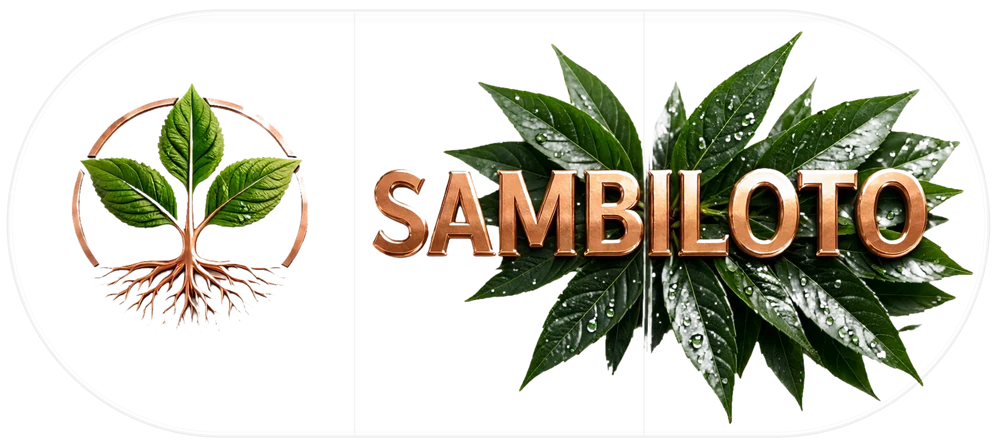
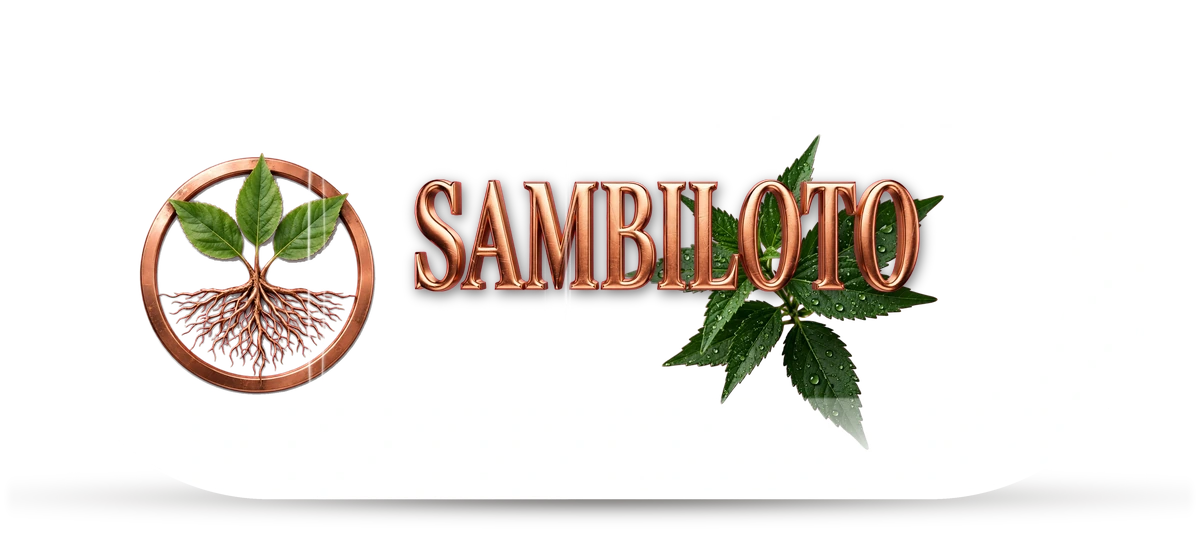
Capsule heroes: Tongkat Ali, Menthol, Sambiloto; Purwoceng redesign

diff --git a/sambiloto.html b/sambiloto.html
@@ -30,8 +30,8 @@
 <link rel="preconnect" href="https://fonts.googleapis.com">
 <link rel="preconnect" href="https://fonts.gstatic.com" crossorigin>
 <link href="https://fonts.googleapis.com/css2?family=Cinzel:wght@400;500;600&family=Cormorant+Garamond:ital,wght@0,400;0,500;0,600;1,400&display=swap" rel="stylesheet">
-<link rel="stylesheet" href="/sheet.css?v=6">
-<link rel="preload" as="image" href="/sambiloto-art.webp?v=6" type="image/webp">
+<link rel="stylesheet" href="/sheet.css?v=9">
+<link rel="preload" as="image" href="/sambiloto-hero.webp?v=13" type="image/webp">
 <script>document.documentElement.className="js"</script>
 </head>
 <body>
@@ -40,15 +40,14 @@
 <a class="tb-back" href="/#products">&larr; All products</a></header>
 <main>
 <section class="hero2">
-<div class="shell"><span class="spec" aria-hidden="true"></span><span class="seam s1" aria-hidden="true"></span><span class="seam s2" aria-hidden="true"></span>
-<figure class="himg"><img src="/sambiloto-art.webp?v=6" width="900" height="415" alt="Root Source Sambiloto: green Sambiloto leaves inside a glass capsule on dark volcanic rock" fetchpriority="high"></figure>
+<figure class="himg"><img src="/sambiloto-hero.webp?v=13" width="1200" height="540" alt="Root Source Sambiloto: green Sambiloto leaves inside a glass capsule on dark volcanic rock" fetchpriority="high"></figure>
 <div class="tblock">
 <p class="eyebrow">Fact sheet</p>
 <h1>Sambiloto</h1>
 <p class="sub"><i>Andrographis paniculata</i> &middot; King of Bitters</p>
 <p class="lead">An intensely bitter herb with a long tradition across India and Southeast Asia, and honest answers to the questions people ask.</p>
 <div class="cta"><a class="btn go" href="checkout.html?add=sambiloto&size=0&qty=1">Order Sambiloto</a> <a class="btn ghost" href="https://wa.me/27687344919?text=Hi%20Root%20Source" target="_blank" rel="noopener">Ask a question on WhatsApp</a></div>
-</div></div>
+</div>
 <div class="chips"><div class="chip"><span>Botanical name</span><b><i>Andrographis paniculata</i><br>Family: Acanthaceae</b></div><div class="chip"><span>Part used</span><b>The herb (leaves and stems)</b></div><div class="chip"><span>Also known as</span><b>Sambiloto (Indonesia), King of Bitters, Kalmegh, Green chiretta</b></div><div class="chip"><span>Our capsule</span><b>500mg, 3:1 dry water extract</b></div><div class="chip"><span>Sizes</span><b>40 capsules (R249)<br>80 capsules (R449)</b></div></div>
 </section>
 <nav class="chnav" aria-label="On this page"><a href="#story">Story</a><a href="#how">How to take it</a><a href="#care">Take care</a><a href="#proof">Proof</a><a href="#faq">Questions</a><a href="#order">Order</a></nav>
@@ -103,10 +102,10 @@
 </div>
 </section>
 <section class="orderband rv" id="order">
-<img src="/sambiloto-card.webp?v=6" loading="lazy" width="700" height="314" alt="">
+<img src="/sambiloto-card.webp" loading="lazy" width="700" height="315" alt="">
 <div><h2>Order Sambiloto</h2><p>Choose your size and quantity on our order page. We confirm availability and send our payment details before anything is paid. For questions, you can also message us on WhatsApp.</p><div class="cta"><a class="btn go" href="checkout.html?add=sambiloto&size=0&qty=1">Order Sambiloto</a> <a class="btn ghost" href="https://wa.me/27687344919?text=Hi%20Root%20Source" target="_blank" rel="noopener">Ask a question on WhatsApp</a></div></div>
 </section>
-<section class="range rv"><h2>Explore the range</h2><div class="rgrid"><a class="rcard" href="/tongkat-ali.html"><img loading="lazy" src="/tongkat-ali-card.webp?v=6" width="700" height="314" alt="Root Source Tongkat Ali (Pasak Bumi): sliced and whole roots inside a glass capsule on dark volcanic rock"><span class="rname">Tongkat Ali <small>(Pasak Bumi)</small></span><span class="rgo">Read the fact sheet &rarr;</span></a><a class="rcard" href="/purwoceng.html"><img loading="lazy" src="/purwoceng-card.webp" width="700" height="314" alt="Root Source Purwoceng: Purwoceng roots inside a glass capsule on dark volcanic rock"><span class="rname">Purwoceng</span><span class="rgo">Read the fact sheet &rarr;</span></a><a class="rcard" href="/menthol.html"><img loading="lazy" src="/menthol-card.webp?v=6" width="700" height="314" alt="Root Source Menthol Crystals: menthol crystals and mint leaves on dark volcanic rock"><span class="rname">Menthol Crystals</span><span class="rgo">Read the fact sheet &rarr;</span></a></div></section>
+<section class="range rv"><h2>Explore the range</h2><div class="rgrid"><a class="rcard" href="/tongkat-ali.html"><img loading="lazy" src="/tongkat-ali-card.webp" width="700" height="315" alt="Root Source Tongkat Ali (Pasak Bumi): sliced and whole roots inside a glass capsule on dark volcanic rock"><span class="rname">Tongkat Ali <small>(Pasak Bumi)</small></span><span class="rgo">Read the fact sheet &rarr;</span></a><a class="rcard" href="/purwoceng.html"><img loading="lazy" src="/purwoceng-card.webp" width="700" height="315" alt="Root Source Purwoceng: Purwoceng roots inside a glass capsule on dark volcanic rock"><span class="rname">Purwoceng</span><span class="rgo">Read the fact sheet &rarr;</span></a><a class="rcard" href="/menthol.html"><img loading="lazy" src="/menthol-card.webp" width="700" height="315" alt="Root Source Menthol Crystals: menthol crystals and mint leaves on dark volcanic rock"><span class="rname">Menthol Crystals</span><span class="rgo">Read the fact sheet &rarr;</span></a></div></section>
 <section class="srcs"><details><summary>Sources</summary><ul><li><a href="https://www.webmd.com/vitamins-supplements/andrographis" target="_blank" rel="noopener">WebMD: Andrographis, side effects and who should not use it</a></li><li><a href="https://drugs.com/npp/andrographis.html" target="_blank" rel="noopener">Drugs.com: Andrographis, pregnancy and interactions</a></li><li><a href="https://www.nparks.gov.sg/florafaunaweb/flora/1/6/1665" target="_blank" rel="noopener">Singapore National Parks Board: <i>Andrographis paniculata</i></a></li><li><a href="https://www.nst.com.my/amp/news/2015/09/37600/bitter-medicinal" target="_blank" rel="noopener">New Straits Times: the king of bitters (names and plant description)</a></li></ul></details></section>
 <p class="disc">Information on this page describes traditional use and is for general information only. It is not medical advice, and our products are not intended to diagnose, treat, cure or prevent any disease. Last updated 3 November 2026. <a href="terms.html">Terms and Contact</a></p>
 </main>

diff --git a/menthol.html b/menthol.html
@@ -30,8 +30,8 @@
 <link rel="preconnect" href="https://fonts.googleapis.com">
 <link rel="preconnect" href="https://fonts.gstatic.com" crossorigin>
 <link href="https://fonts.googleapis.com/css2?family=Cinzel:wght@400;500;600&family=Cormorant+Garamond:ital,wght@0,400;0,500;0,600;1,400&display=swap" rel="stylesheet">
-<link rel="stylesheet" href="/sheet.css?v=6">
-<link rel="preload" as="image" href="/menthol-art.webp?v=6" type="image/webp">
+<link rel="stylesheet" href="/sheet.css?v=9">
+<link rel="preload" as="image" href="/menthol-hero.webp?v=13" type="image/webp">
 <script>document.documentElement.className="js"</script>
 </head>
 <body>
@@ -40,15 +40,14 @@
 <a class="tb-back" href="/#products">&larr; All products</a></header>
 <main>
 <section class="hero2">
-<div class="shell"><span class="spec" aria-hidden="true"></span><span class="seam s1" aria-hidden="true"></span><span class="seam s2" aria-hidden="true"></span>
-<figure class="himg"><img src="/menthol-art.webp?v=6" width="900" height="415" alt="Root Source Menthol Crystals: menthol crystals and mint leaves on dark volcanic rock" fetchpriority="high"></figure>
+<figure class="himg"><img src="/menthol-hero.webp?v=13" width="1200" height="540" alt="Root Source Menthol Crystals: menthol crystals and mint leaves on dark volcanic rock" fetchpriority="high"></figure>
 <div class="tblock">
 <p class="eyebrow">Fact sheet</p>
 <h1>Menthol Crystals</h1>
 <p class="sub">Pure menthol &middot; for external use and inhalation only</p>
 <p class="lead">A cooling, minty crystal, and clear, careful guidance on how to use it safely. Menthol is very strong, so the instructions below matter.</p>
 <div class="cta"><a class="btn go" href="checkout.html?add=menthol&size=0&qty=1">Order Menthol Crystals</a> <a class="btn ghost" href="https://wa.me/27687344919?text=Hi%20Root%20Source" target="_blank" rel="noopener">Ask a question on WhatsApp</a></div>
-</div></div>
+</div>
 <div class="chips"><div class="chip"><span>Ingredient</span><b>Menthol (CAS 89-78-1)</b></div><div class="chip"><span>Purity</span><b>99.5% minimum by GC, as stated on the product sheet</b></div><div class="chip"><span>Appearance</span><b>White to colourless crystals with a strong minty smell</b></div><div class="chip"><span>Melting point</span><b>41 to 44&deg;C</b></div><div class="chip"><span>Pack and shelf life</span><b>Amber glass jar<br>24 months</b></div><div class="chip"><span>Sizes</span><b>50g (R129)<br>100g (R229)</b></div></div>
 </section>
 <nav class="chnav" aria-label="On this page"><a href="#story">Story</a><a href="#how">How to use it</a><a href="#care">Take care</a><a href="#proof">Proof</a><a href="#faq">Questions</a><a href="#order">Order</a></nav>
@@ -103,10 +102,10 @@
 </div>
 </section>
 <section class="orderband rv" id="order">
-<img src="/menthol-card.webp?v=6" loading="lazy" width="700" height="314" alt="">
+<img src="/menthol-card.webp" loading="lazy" width="700" height="315" alt="">
 <div><h2>Order Menthol Crystals</h2><p>Choose your size and quantity on our order page. We confirm availability and send our payment details before anything is paid. For questions, you can also message us on WhatsApp.</p><div class="cta"><a class="btn go" href="checkout.html?add=menthol&size=0&qty=1">Order Menthol Crystals</a> <a class="btn ghost" href="https://wa.me/27687344919?text=Hi%20Root%20Source" target="_blank" rel="noopener">Ask a question on WhatsApp</a></div></div>
 </section>
-<section class="range rv"><h2>Explore the range</h2><div class="rgrid"><a class="rcard" href="/tongkat-ali.html"><img loading="lazy" src="/tongkat-ali-card.webp?v=6" width="700" height="314" alt="Root Source Tongkat Ali (Pasak Bumi): sliced and whole roots inside a glass capsule on dark volcanic rock"><span class="rname">Tongkat Ali <small>(Pasak Bumi)</small></span><span class="rgo">Read the fact sheet &rarr;</span></a><a class="rcard" href="/purwoceng.html"><img loading="lazy" src="/purwoceng-card.webp" width="700" height="314" alt="Root Source Purwoceng: Purwoceng roots inside a glass capsule on dark volcanic rock"><span class="rname">Purwoceng</span><span class="rgo">Read the fact sheet &rarr;</span></a><a class="rcard" href="/sambiloto.html"><img loading="lazy" src="/sambiloto-card.webp?v=6" width="700" height="314" alt="Root Source Sambiloto: green Sambiloto leaves inside a glass capsule on dark volcanic rock"><span class="rname">Sambiloto</span><span class="rgo">Read the fact sheet &rarr;</span></a></div></section>
+<section class="range rv"><h2>Explore the range</h2><div class="rgrid"><a class="rcard" href="/tongkat-ali.html"><img loading="lazy" src="/tongkat-ali-card.webp" width="700" height="315" alt="Root Source Tongkat Ali (Pasak Bumi): sliced and whole roots inside a glass capsule on dark volcanic rock"><span class="rname">Tongkat Ali <small>(Pasak Bumi)</small></span><span class="rgo">Read the fact sheet &rarr;</span></a><a class="rcard" href="/purwoceng.html"><img loading="lazy" src="/purwoceng-card.webp" width="700" height="315" alt="Root Source Purwoceng: Purwoceng roots inside a glass capsule on dark volcanic rock"><span class="rname">Purwoceng</span><span class="rgo">Read the fact sheet &rarr;</span></a><a class="rcard" href="/sambiloto.html"><img loading="lazy" src="/sambiloto-card.webp" width="700" height="315" alt="Root Source Sambiloto: green Sambiloto leaves inside a glass capsule on dark volcanic rock"><span class="rname">Sambiloto</span><span class="rgo">Read the fact sheet &rarr;</span></a></div></section>
 <section class="srcs"><details><summary>Sources</summary><ul><li><a href="https://www.royaldevon.nhs.uk/news/nhs-and-british-burn-association-issue-public-safety-warning-steam-inhalation-causes-burns/" target="_blank" rel="noopener">Royal Devon NHS: NHS and British Burn Association warning about steam inhalation, 2025</a></li><li><a href="https://cameo.mfa.org/wiki/Menthol" target="_blank" rel="noopener">Museum of Fine Arts Boston, CAMEO: Menthol (solubility and melting point)</a></li><li><a href="https://www.doctoroncall.com.my/pharmacy/menthol-crystal/" target="_blank" rel="noopener">Doctor on Call: Menthol crystal, safety information</a></li></ul></details></section>
 <p class="disc">Information on this page is for general information only. It is not medical advice, and our products are not intended to diagnose, treat, cure or prevent any disease. Last updated 3 November 2026. <a href="terms.html">Terms and Contact</a></p>
 </main>

diff --git a/purwoceng.html b/purwoceng.html
@@ -30,7 +30,7 @@
 <link rel="preconnect" href="https://fonts.googleapis.com">
 <link rel="preconnect" href="https://fonts.gstatic.com" crossorigin>
 <link href="https://fonts.googleapis.com/css2?family=Cinzel:wght@400;500;600&family=Cormorant+Garamond:ital,wght@0,400;0,500;0,600;1,400&display=swap" rel="stylesheet">
-<link rel="stylesheet" href="/sheet.css?v=6">
+<link rel="stylesheet" href="/sheet.css?v=9">
 <script>document.documentElement.className="js"</script>
 </head>
 <body>
@@ -39,7 +39,6 @@
 <a class="tb-back" href="/#products">&larr; All products</a></header>
 <main>
 <section class="hero2">
-<div class="shell"><span class="spec" aria-hidden="true"></span><span class="seam s1" aria-hidden="true"></span><span class="seam s2" aria-hidden="true"></span>
 <figure class="himg"><div class="ph big"><img class="emb" src="/logo-emblem.webp" width="360" height="360" alt=""><span class="phn">Purwoceng</span></div></figure>
 <div class="tblock">
 <p class="eyebrow">Fact sheet</p>
@@ -47,7 +46,7 @@
 <p class="sub"><i>Pimpinella pruatjan</i> Molk. &middot; Pruatjan</p>
 <p class="lead">A rare highland plant of Java, a root with a long tradition, and honest answers to the questions people ask.</p>
 <div class="cta"><a class="btn go" href="checkout.html?add=purwoceng&size=0&qty=1">Order Purwoceng</a> <a class="btn ghost" href="https://wa.me/27687344919?text=Hi%20Root%20Source%2C%20I%20have%20a%20question." target="_blank" rel="noopener">Ask a question on WhatsApp</a></div>
-</div></div>
+</div>
 <div class="chips"><div class="chip"><span>Botanical name</span><b><i>Pimpinella pruatjan</i> Molk. (also written <i>Pimpinella alpina</i>)<br>Family: Apiaceae</b></div><div class="chip"><span>Part used</span><b>The root</b></div><div class="chip"><span>Also known as</span><b>Purwoceng, Pruatjan</b></div><div class="chip"><span>Our capsule</span><b>500mg, 10:1 dry water extract</b></div><div class="chip"><span>Sizes</span><b>40 capsules (R399)<br>80 capsules (R729)</b></div></div>
 </section>
 <nav class="chnav" aria-label="On this page"><a href="#story">Story</a><a href="#how">How to take it</a><a href="#care">Take care</a><a href="#proof">Proof</a><a href="#faq">Questions</a><a href="#order">Order</a></nav>
@@ -106,7 +105,7 @@
 <div class="ph mid"><img class="emb" src="/logo-emblem.webp" width="360" height="360" alt=""><span class="phn">Purwoceng</span></div>
 <div><h2>Order Purwoceng</h2><p>Choose your size and quantity on our order page. We confirm availability and send our payment details before anything is paid. For questions, you can also message us on WhatsApp.</p><div class="cta"><a class="btn go" href="checkout.html?add=purwoceng&size=0&qty=1">Order Purwoceng</a> <a class="btn ghost" href="https://wa.me/27687344919?text=Hi%20Root%20Source%2C%20I%20have%20a%20question." target="_blank" rel="noopener">Ask a question on WhatsApp</a></div></div>
 </section>
-<section class="range rv"><h2>Explore the range</h2><div class="rgrid"><a class="rcard" href="/tongkat-ali.html"><img loading="lazy" src="/tongkat-ali-card.webp?v=6" width="700" height="314" alt="Root Source Tongkat Ali (Pasak Bumi): sliced and whole roots inside a glass capsule on dark volcanic rock"><span class="rname">Tongkat Ali <small>(Pasak Bumi)</small></span><span class="rgo">Read the fact sheet &rarr;</span></a><a class="rcard" href="/sambiloto.html"><img loading="lazy" src="/sambiloto-card.webp?v=6" width="700" height="314" alt="Root Source Sambiloto: green Sambiloto leaves inside a glass capsule on dark volcanic rock"><span class="rname">Sambiloto</span><span class="rgo">Read the fact sheet &rarr;</span></a><a class="rcard" href="/menthol.html"><img loading="lazy" src="/menthol-card.webp?v=6" width="700" height="314" alt="Root Source Menthol Crystals: menthol crystals and mint leaves on dark volcanic rock"><span class="rname">Menthol Crystals</span><span class="rgo">Read the fact sheet &rarr;</span></a></div></section>
+<section class="range rv"><h2>Explore the range</h2><div class="rgrid"><a class="rcard" href="/tongkat-ali.html"><img loading="lazy" src="/tongkat-ali-card.webp" width="700" height="315" alt="Root Source Tongkat Ali (Pasak Bumi): sliced and whole roots inside a glass capsule on dark volcanic rock"><span class="rname">Tongkat Ali <small>(Pasak Bumi)</small></span><span class="rgo">Read the fact sheet &rarr;</span></a><a class="rcard" href="/sambiloto.html"><img loading="lazy" src="/sambiloto-card.webp" width="700" height="315" alt="Root Source Sambiloto: green Sambiloto leaves inside a glass capsule on dark volcanic rock"><span class="rname">Sambiloto</span><span class="rgo">Read the fact sheet &rarr;</span></a><a class="rcard" href="/menthol.html"><img loading="lazy" src="/menthol-card.webp" width="700" height="315" alt="Root Source Menthol Crystals: menthol crystals and mint leaves on dark volcanic rock"><span class="rname">Menthol Crystals</span><span class="rgo">Read the fact sheet &rarr;</span></a></div></section>
 <section class="srcs"><details><summary>Sources</summary><ul><li><a href="https://doi.org/10.61186/IJT.17.3.60" target="_blank" rel="noopener">Chronic toxicity of purwoceng root extract in rat liver and kidneys, Iranian Journal of Toxicology, 2023</a></li><li><a href="https://doi.org/10.20884/1.jm.2021.16.2.729" target="_blank" rel="noopener">Hepatotoxic and nephrotoxic effects of purwoceng root ethanol extract at subchronic dose, Molekul, 2021</a></li><li><a href="http://repository.ipb.ac.id/handle/123456789/77729" target="_blank" rel="noopener">Reproductive cycle of rat offspring after purwoceng root extract in pregnancy, IPB University thesis, 2015</a></li><li><a href="https://www.goodnewsfromindonesia.id/indonesiana/alam-lingkungan/dijuluki-ginseng-jawa-tak-banyak-yang-tahu-kalau-tanaman-ini-perlahan-makin-langka" target="_blank" rel="noopener">Good News from Indonesia: purwoceng and its conservation status (in Indonesian)</a></li></ul></details></section>
 <p class="disc">Information on this page describes traditional use and is for general information only. It is not medical advice, and our products are not intended to diagnose, treat, cure or prevent any disease. Last updated 2 November 2026. <a href="terms.html">Terms and Contact</a></p>
 </main>

diff --git a/tongkat-ali.html b/tongkat-ali.html
@@ -31,7 +31,7 @@
 <link rel="preconnect" href="https://fonts.gstatic.com" crossorigin>
 <link href="https://fonts.googleapis.com/css2?family=Cinzel:wght@400;500;600&family=Cormorant+Garamond:ital,wght@0,400;0,500;0,600;1,400&display=swap" rel="stylesheet">
 <link rel="stylesheet" href="/sheet.css?v=9">
-<link rel="preload" as="image" href="/tongkat-ali-hero.webp?v=11" type="image/webp">
+<link rel="preload" as="image" href="/tongkat-ali-hero.webp?v=13" type="image/webp">
 <script>document.documentElement.className="js"</script>
 </head>
 <body>
@@ -40,7 +40,7 @@
 <a class="tb-back" href="/#products">&larr; All products</a></header>
 <main>
 <section class="hero2">
-<figure class="himg"><img src="/tongkat-ali-hero.webp?v=11" width="1200" height="540" alt="Root Source Tongkat Ali (Pasak Bumi): sliced and whole roots inside a glass capsule on dark volcanic rock" fetchpriority="high"></figure>
+<figure class="himg"><img src="/tongkat-ali-hero.webp?v=13" width="1200" height="540" alt="Root Source Tongkat Ali (Pasak Bumi): sliced and whole roots inside a glass capsule on dark volcanic rock" fetchpriority="high"></figure>
 <div class="tblock">
 <p class="eyebrow">Fact sheet</p>
 <h1>Tongkat Ali</h1>
